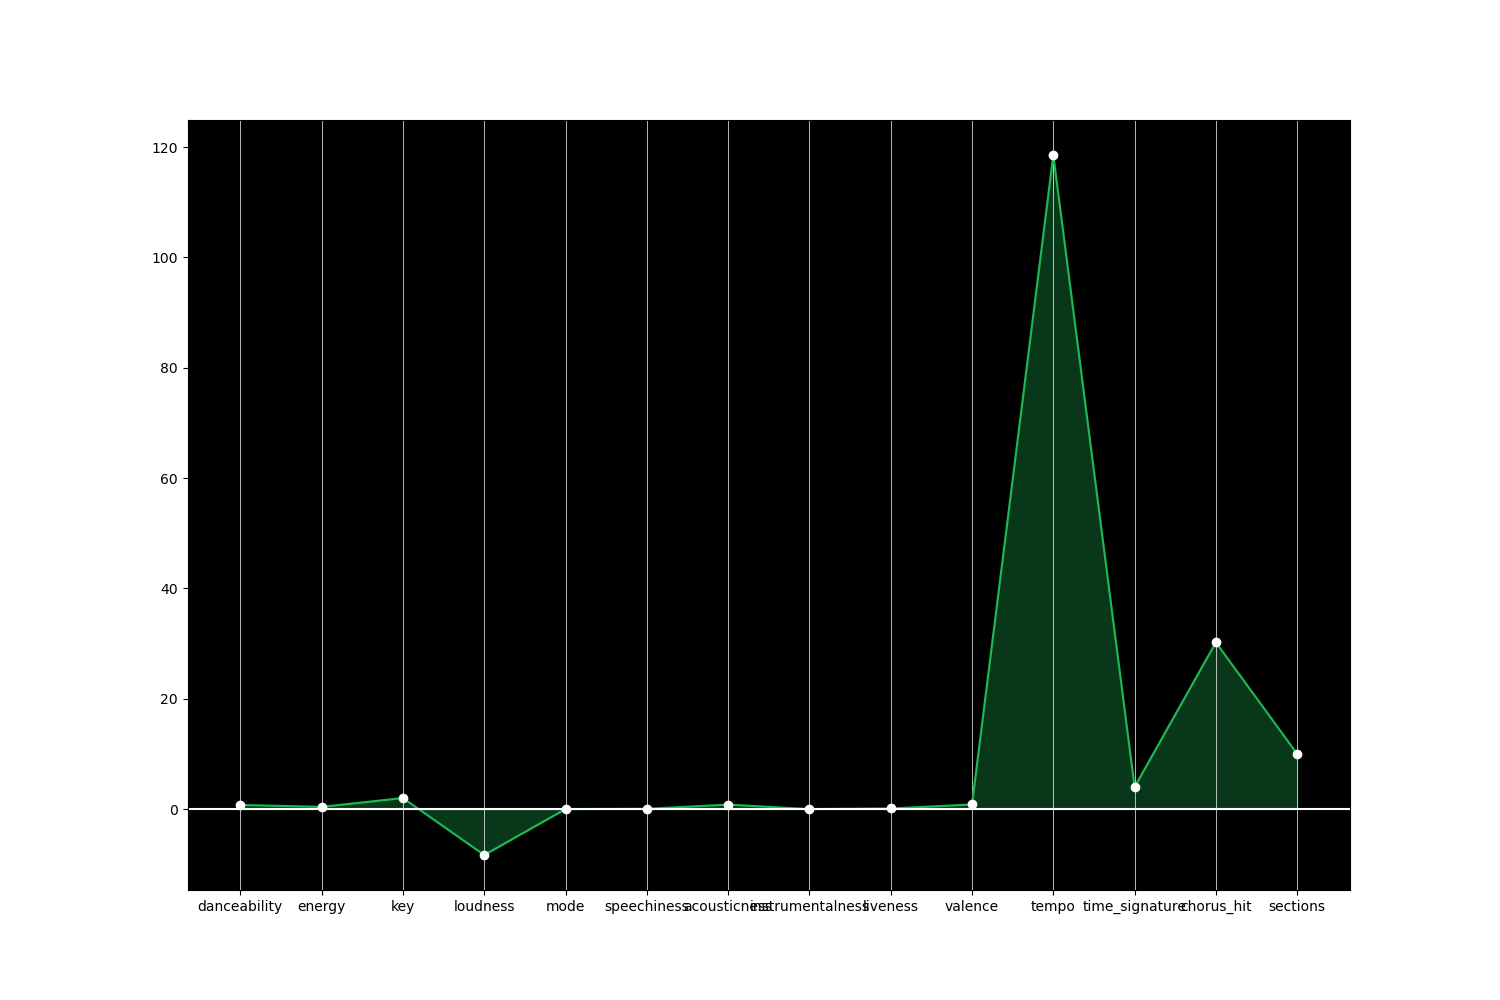
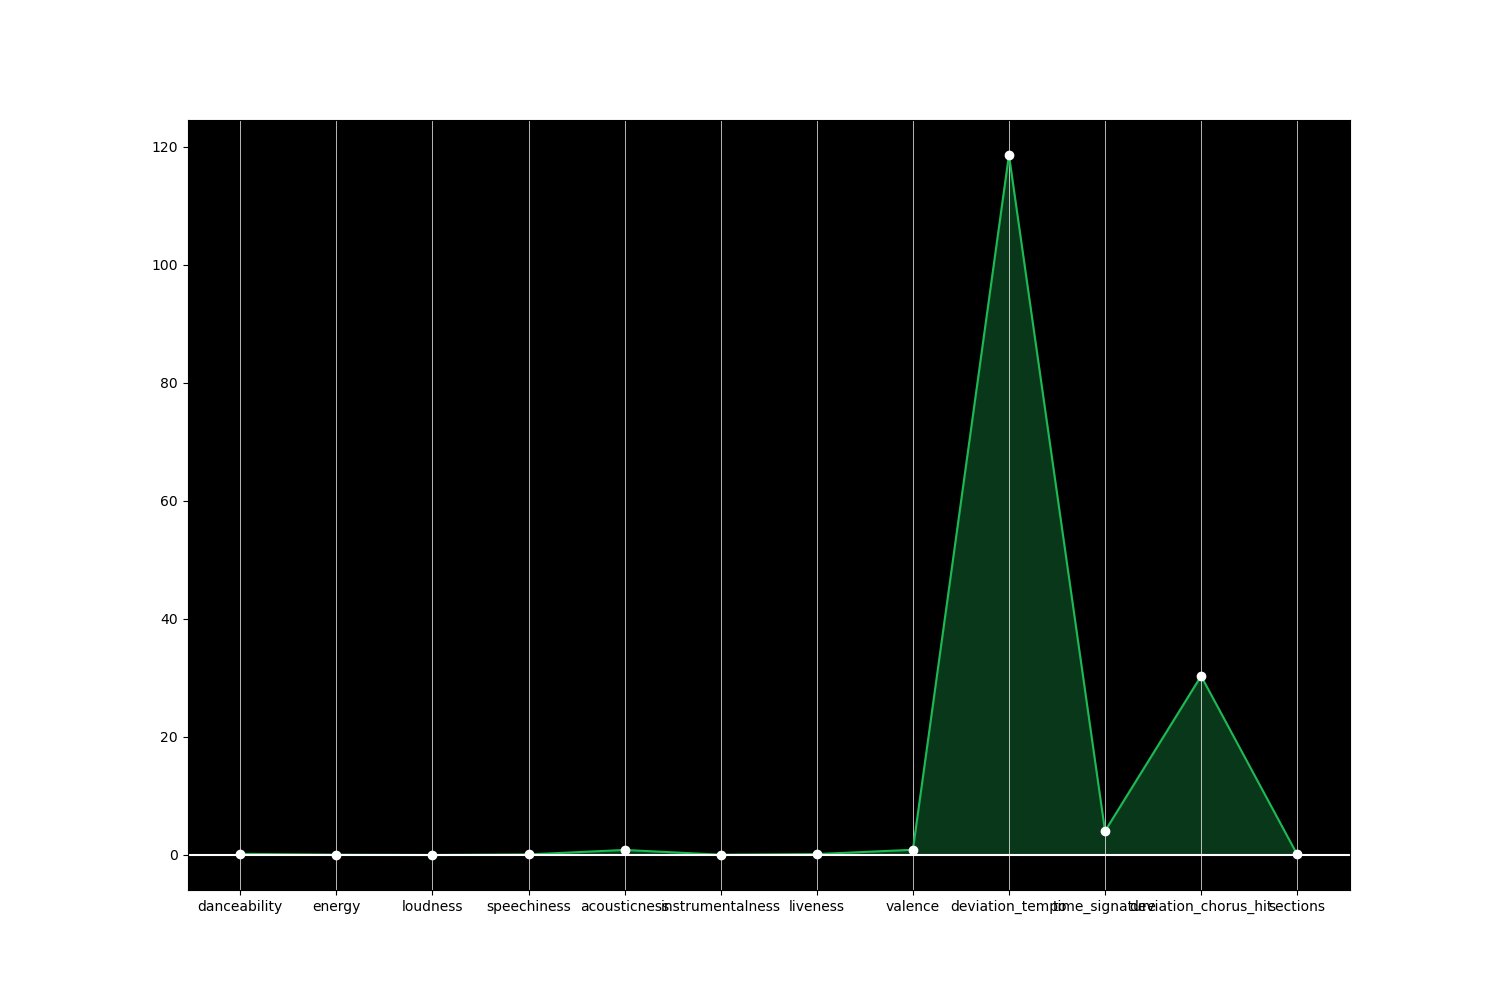
update

Changed region(s): [[0.1533, 0.155, 0.8893, 0.868], [0.2147, 0.899, 0.8587, 0.93], [0.092, 0.248, 0.1227, 0.279]]

diff --git a/App/Assi.py b/App/Assi.py
@@ -1,5 +1,6 @@
 from flask import Flask, render_template, request, send_file
 from matplotlib.backends.backend_agg import FigureCanvasAgg as FigureCanvas
+from sklearn.preprocessing import MaxAbsScaler
 import webbrowser
 import requests
 import pickle
@@ -27,8 +28,6 @@ def generate_and_save_graph(file_path, x, y, graph_type):
 def generate_feature_graph(file_path, x, y):
     # Calculation of the mean song tempo
     mean_tempo = np.mean(y)
-    
-    
     
     fig, ax = plt.subplots(figsize = (15,10))
     ax.plot(x, y, color='#1DB954')
@@ -142,10 +141,37 @@ def getdata():
         prediction_label = 'Flop'
 
 
-    # Create a graph: 
+    #### Create a graph: ####
     graph_file_path = os.path.join('App/static/images', 'feature_graph.png')
-    y_values = X_test  # assuming these are the y-values you want to plot
-    generate_feature_graph(graph_file_path, feature_names, y_values[0])
+
+    
+    # Load your data into a pandas DataFrame
+    df = pd.read_csv('TikTokSpotifyMerged.csv')
+
+    # Calculate mean values
+    mean_tempo = df['tempo'].mean()
+    mean_chorus_hit = df['chorus_hit'].mean()
+
+    deviation_tempo = abs(tempo - mean_tempo)
+    deviation_chorus_hit = abs(chorus_hit - mean_chorus_hit)
+
+    graph_data = [[danceability, energy, loudness, speechiness, acousticness, instrumentalness, liveness, valence, tempo, time_signature, chorus_hit, sections]]
+    feature_names = ['danceability', 'energy', 'loudness', 'speechiness', 'acousticness', 'instrumentalness', 'liveness','valence', 'deviation_tempo', 'time_signature', 'deviation_chorus_hit', 'sections']
+
+    # Modify your feature data
+    df = df.drop(columns=['track_id', 'track', 'artist', 'popularity', 'duration_ms', 'key', 'mode', 'main_parent_genre', 'era', 'target', 'sm_target', 'tiktok', 'spotify' ])
+    scaler = MaxAbsScaler()
+    scaler.fit(df)
+
+    # Scale the DataFrame
+    df_scaled = pd.DataFrame(scaler.transform(df), columns=df.columns)
+
+    # Scale the graph_data in relation to the entire dataset 
+    graph_data_scaled = scaler.transform(graph_data)
+
+    # Generate the graph
+    generate_feature_graph(graph_file_path, feature_names, graph_data_scaled[0]) 
+
 
 # Process the track data as needed
     return render_template('index2.html', track_data=track_data_json, danceability=danceability, energy=energy, key=key, loudness=loudness, mode=mode, speechiness=speechiness, acousticness=acousticness, instrumentalness=instrumentalness, liveness=liveness, valence=valence, tempo=tempo, time_signature=time_signature, chorus_hit=chorus_hit, sections=sections, prediction=prediction_label)
